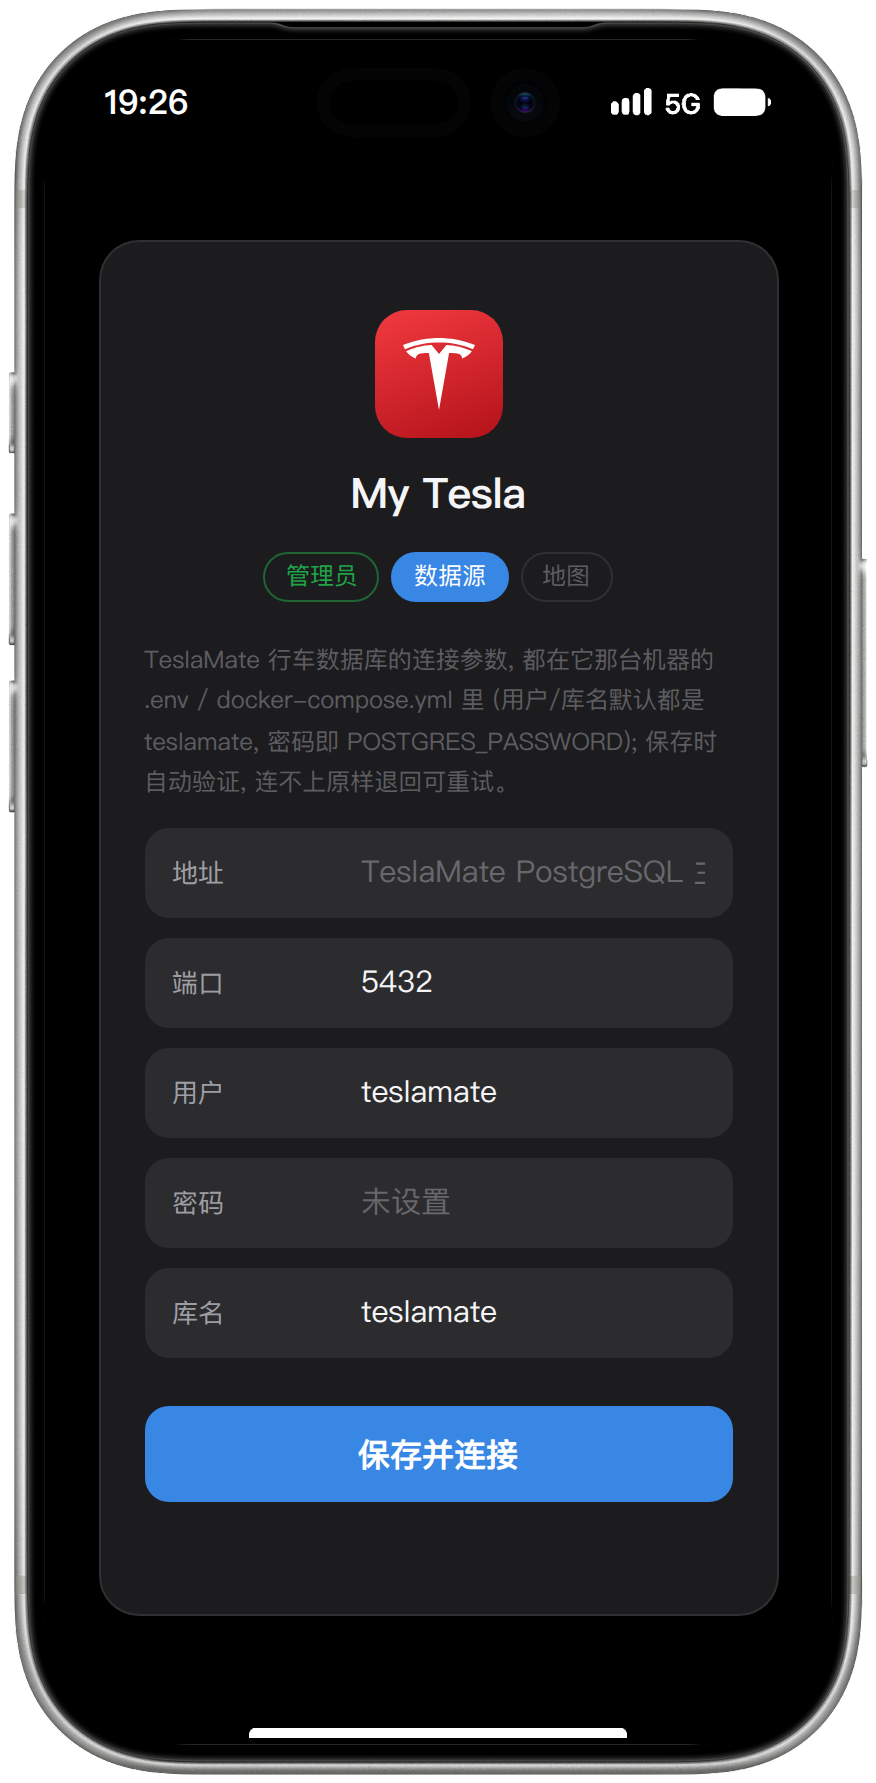
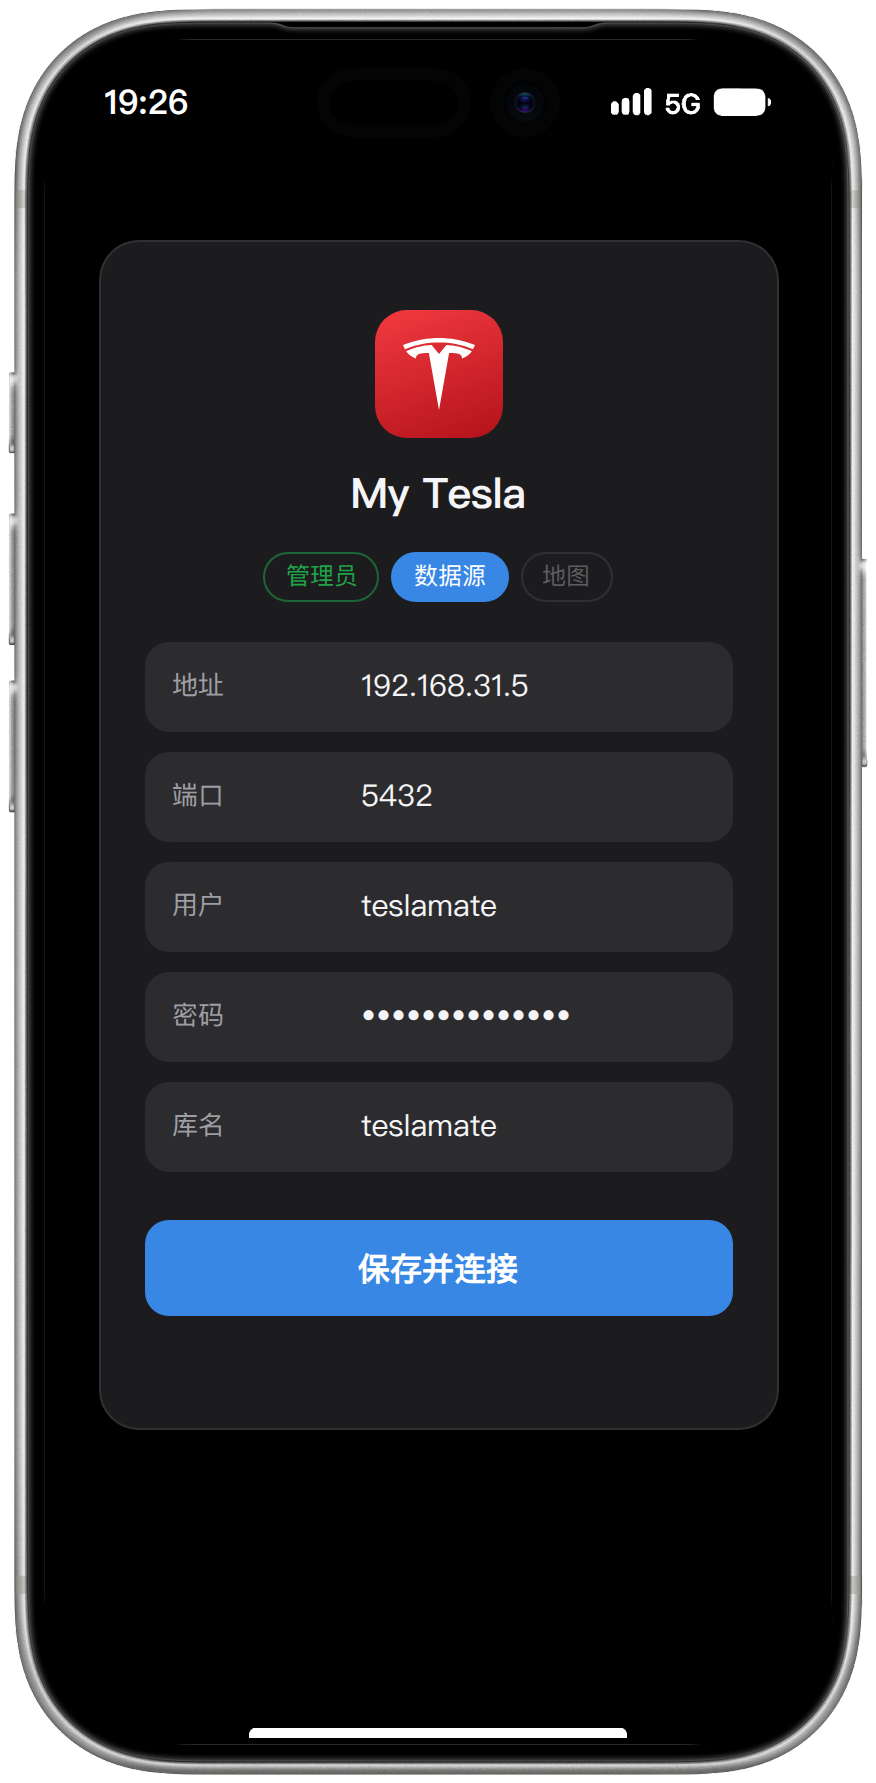
向导二/三步截图重拍 ?v=2: 说明段退役 + Web 服务 Key 必填后的新表单 (首启态实例 showStep 直切不真提交, 示例值与 4.2/4.3 表格同款)

Changed region(s): [[0.1541, 0.3702, 0.8322, 0.7403], [0.0925, 0.7712, 0.8938, 0.9254], [0.5856, 0.4627, 0.7705, 0.4936]]

diff --git a/README.md b/README.md
@@ -143,7 +143,7 @@ compose 内部网络互通), 跨机器访问要先给 `database` 服务加端口
 ```
 
 <p align="center">
-<a name="shot-setup-2"><img src="docs/screenshot-setup-2.png" width="240" alt="向导第二步 · 填 TeslaMate 连接"></a>
+<a name="shot-setup-2"><img src="docs/screenshot-setup-2.png?v=2" width="240" alt="向导第二步 · 填 TeslaMate 连接"></a>
 </p>
 
 ### 4.3 地图
@@ -165,7 +165,7 @@ compose 内部网络互通), 跨机器访问要先给 `database` 服务加端口
 - 只在服务端用: 把足迹轨迹拟合到实际道路
 
 <p align="center">
-<a name="shot-setup-3"><img src="docs/screenshot-setup-3.png" width="240" alt="向导第三步 · 填高德 Key"></a>
+<a name="shot-setup-3"><img src="docs/screenshot-setup-3.png?v=2" width="240" alt="向导第三步 · 填高德 Key"></a>
 </p>
 
 ## 5. 📄 许可证
